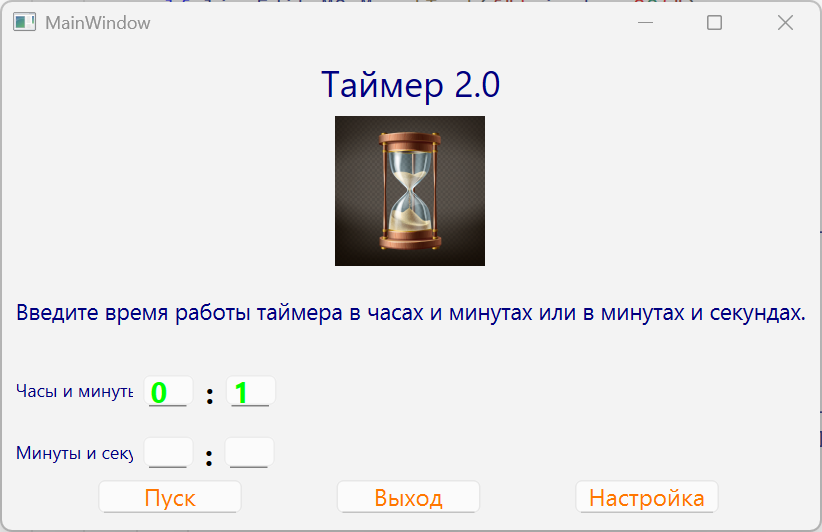
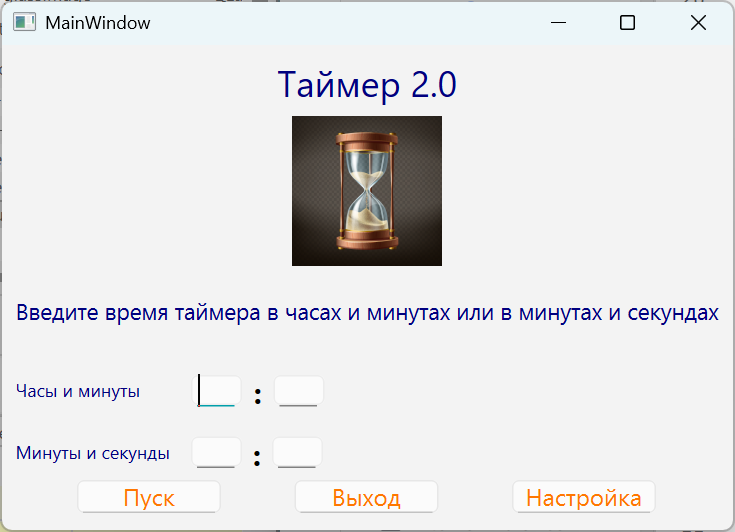
Корректировка главного окна и Ruff для тестов

diff --git a/tests/test_tunes_storage.py b/tests/test_tunes_storage.py
@@ -26,9 +26,11 @@ def test_load_missing_user_file_returns_defaults_and_creates_file() -> None:
 
     assert dto == default_dto()
     assert storage.settings_file.exists()
-    assert json.loads(storage.settings_file.read_text(encoding="utf-8")) == dto_to_json_dict(
-        default_dto()
-    )
+
+    saved_text = storage.settings_file.read_text(encoding="utf-8")
+    saved_data = json.loads(saved_text)
+    assert saved_data == dto_to_json_dict(default_dto())
+
     assert storage.pop_warnings()
 
 
@@ -74,7 +76,9 @@ def test_load_non_dict_json_returns_defaults_and_warning() -> None:
     dto = storage.load()
 
     assert dto == default_dto()
-    assert any("некорректную структуру" in warning for warning in storage.pop_warnings())
+
+    warnings = storage.pop_warnings()
+    assert any("некорректную структуру" in warning for warning in warnings)
 
 
 def test_switch_settings_file_updates_registry_and_saves_selected_file(
@@ -94,7 +98,9 @@ def test_switch_settings_file_updates_registry_and_saves_selected_file(
     assert new_settings_file.exists()
 
 
-def test_load_active_settings_file_falls_back_on_broken_registry(tmp_path: Path) -> None:
+def test_broken_active_registry_falls_back_to_default(
+    tmp_path: Path,
+) -> None:
     app_dir = tmp_path / "Timer_2"
     app_dir.mkdir(parents=True)
     (app_dir / ACTIVE_SETTINGS_FILE_NAME).write_text("[]", encoding="utf-8")